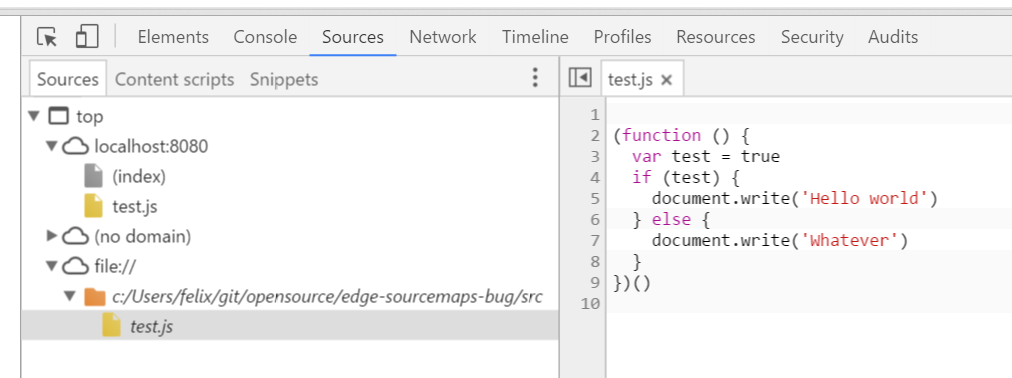
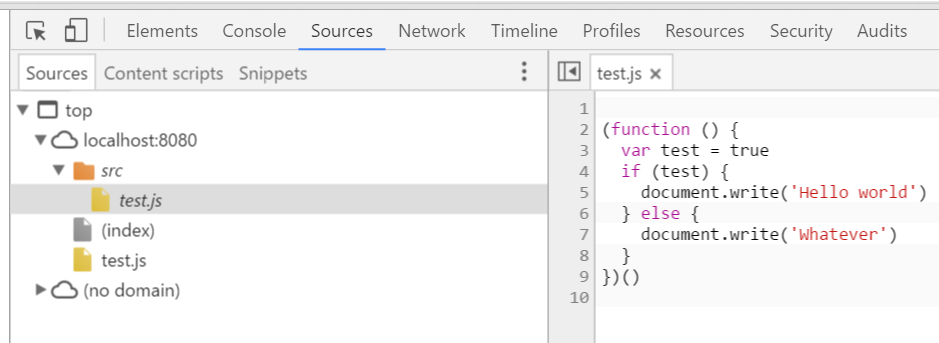
Modify example to not use sourceRoot

Changed region(s): [[0.0, 0.0, 1.0, 1.0], [0.5559, 0.4956, 0.5868, 0.5248]]

diff --git a/gulpfile.js b/gulpfile.js
@@ -2,7 +2,6 @@ const gulp = require('gulp')
 const uglify = require('gulp-uglify')
 const sourcemaps = require('gulp-sourcemaps')
 const gulpIf = require('gulp-if')
-const fileUrl = require('file-url')
 const rename = require('gulp-rename')
 
 gulp.task('build', () =>
@@ -10,9 +9,8 @@ gulp.task('build', () =>
     .pipe(sourcemaps.init())
     // uglify javascript file
     .pipe(gulpIf('*.js', uglify()))
-    // write .map files, set sourceRoot to the absolute file URL of this folder
-    // (this is for example needed for IDEs like VS Code Chrome Debugger)
-    .pipe(sourcemaps.write('.', {sourceRoot: fileUrl(__dirname)}))
+    // write .map files, dont use sourceRoot
+    .pipe(sourcemaps.write('.', {sourceRoot: null}))
     // prevent gulp from creating a src subdirectory in build
     .pipe(rename(filePath => {
       filePath.dirname = filePath.dirname.substr('src/'.length)

diff --git a/README.md b/README.md
@@ -29,12 +29,11 @@ Example for reproducing the MS Edge sourcemaps bug
   "file": "src/test.js",
   "sourcesContent": [
     "\n(function () {\n  var test = true\n  if (test) {\n    document.write('Hello world')\n  } else {\n    document.write('Whatever')\n  }\n})()\n"
-  ],
-  "sourceRoot": "file:///c:/Users/felix/git/opensource/edge-sourcemaps-bug"
+  ]
 }
 ```
 
-As you can see, the `sourceRoot` is correctly set to the root folder and the source file is correctly referenced with `src/test.js`.
+No `sourceRoot` is set and the source file is referenced relatively with `src/test.js`.
 
 ## Expected Dev Tools Output (Chrome Debugger)
 ![Chrome Dev Tools Screenshot](images/chrome.png)
@@ -42,5 +41,6 @@ As you can see, the `sourceRoot` is correctly set to the root folder and the sou
 ## Actual Dev Tools Output (Edge)
 ![Edge Dev Tools Screenshot](images/edge.png)
 
- - the root folder is not shown at all
- - the `src` folder is duplicated (the same behaviour would occur for any referenced folder, like `node_modules`)
+The `src` folder is
+ - not shown as a subdirectory of `localhost`
+ - duplicated (the same behaviour would occur for any referenced folder, like `node_modules`)
